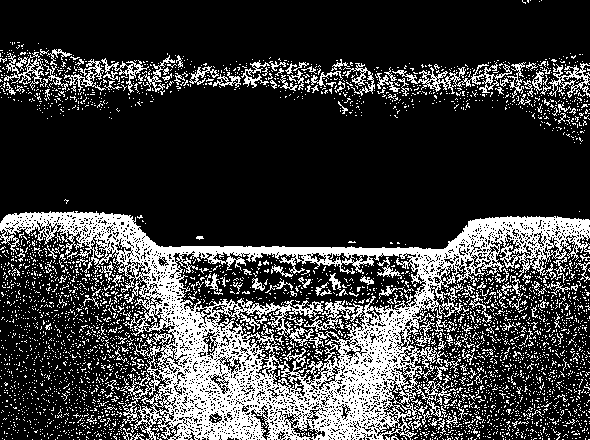
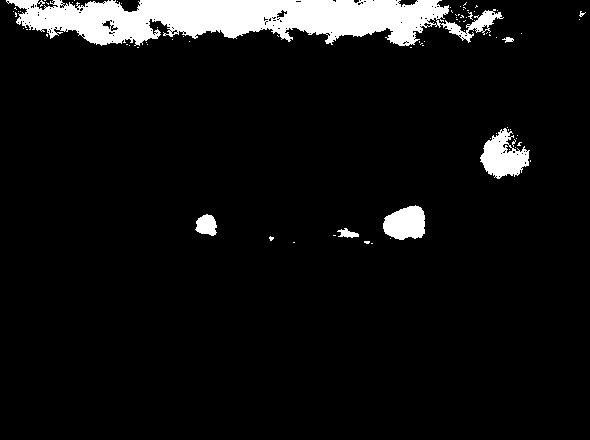
filter work for the project.

diff --git a/filter_Tool.py b/filter_Tool.py
@@ -3,14 +3,26 @@ import tkinter as tk
 from PIL import ImageTk
 import os
 from numpy import ndarray
+import numpy as np
 import base64
 
 
 def custom_filter(img_to_find: ndarray):
-    gray = cv2.convertScaleAbs(img_to_find, alpha=2, beta=-50)
-    binary_img = cv2.adaptiveThreshold(gray, 255, cv2.ADAPTIVE_THRESH_GAUSSIAN_C, cv2.THRESH_BINARY_INV, 19, 2)
-    # save
-    output = binary_img
+    # gray = cv2.convertScaleAbs(img_to_find, alpha=2, beta=-50)
+    # binary_img = cv2.adaptiveThreshold(gray, 255, cv2.ADAPTIVE_THRESH_MEAN_C, cv2.THRESH_BINARY_INV, 19, 1)
+    # print(img_to_find.shape)
+    """ # Search yellow algo
+    hsv = cv2.cvtColor(img_to_find, cv2.COLOR_BGR2HSV)
+    binary_img = img_to_find
+    lower = np.array([22, 20, 0])
+    upper = np.array([40, 130, 255])
+    binary_img = cv2.inRange(hsv, lower, upper) """
+    
+    # overwrite the green channel to other channel for more evidance.
+    img_to_find[:,:,0] = img_to_find[:,:,1]
+    img_to_find[:,:,2] = img_to_find[:,:,1]
+    _, output = cv2.threshold(img_to_find, 190,255,cv2.THRESH_BINARY)
+    # Save
     cv2.imwrite(os.path.join(r"tmp", "tmp.png"), output)
     return os.path.join(r"tmp", "tmp.png")
 
@@ -30,7 +42,7 @@ def open_picture(event):
         imglive.config(image=oiginal_picture)
         imglive.image = oiginal_picture
         imglive.update()
-        image_to_filter = cv2.imread(ori_full_filepath, 0)
+        image_to_filter = cv2.imread(ori_full_filepath, 3)
         filter_image = custom_filter(image_to_filter)
         filter_base64 = decode_binary(filter_image)
         filter_picture = tk.PhotoImage(data=bytes(filter_base64))
